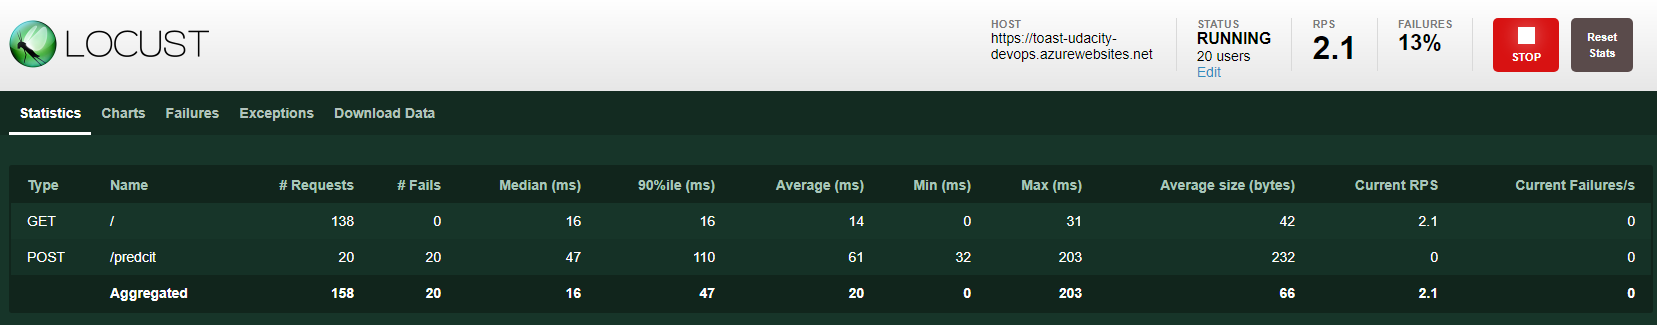
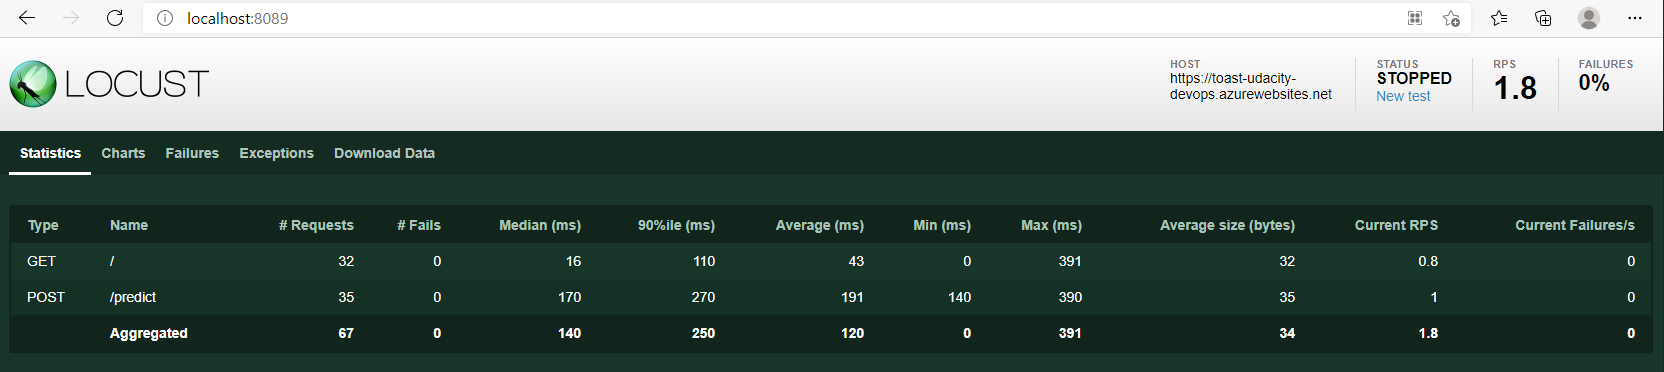
update readme

diff --git a/locustfile.py b/locustfile.py
@@ -4,29 +4,11 @@ from locust import HttpUser, between, task
 class WebsiteUser(HttpUser):
     wait_time = between(5, 15)
     
-    def on_start(self):
-        self.client.post("/predcit",
-        {
-   "CHAS":{
-      "0":0
-   },
-   "RM":{
-      "0":6.575
-   },
-   "TAX":{
-      "0":296.0
-   },
-   "PTRATIO":{
-      "0":15.3
-   },
-   "B":{
-      "0":396.9
-   },
-   "LSTAT":{
-      "0":4.98
-   }
-})
-        
     @task
-    def about(self):
+    def post(self):
+        payload = {'CHAS':{'0':0},'RM':{'0':6.575},'TAX':{'0':296.0},'PTRATIO':{'0':15.3},'B':{'0':396.9},'LSTAT':{'0':4.98}}
+        self.client.post("/predict", json=payload)      
+
+    @task
+    def get(self):
         self.client.get("/")

diff --git a/README.md b/README.md
@@ -19,18 +19,18 @@ In this project, we
 
 ## Instructions
 
-### Clone the repository from github
+### Clone the repository from GitHub
 * using https: `git clone https://github.com/manuel284/Udacity-Building-a-CI-CD-Pipeline.git`
 * using ssh
-    1. create an ssh key: `ssh-keygen -t rsa`
-    ![ssh-keygen](screenshots/11-ssh-keygen.png)
-    2. copy the value of the key: `cat /home/manuel/.ssh/id_rsa.pub`
-    ![ssh-public](screenshots/12-ssh-public.png)
-    3. add the key to your github account: https://github.com/settings/keys ![new ssh key](screenshots/10-ssh-new.png)
-    ![ssh save](screenshots/13-ssh-save.png)
-    ![ssh saved](screenshots/14-ssh-saved.png)
-    4. git clone: `git clone git@github.com:manuel284/Udacity-Building-a-CI-CD-Pipeline.git`
-    ![git clone](screenshots/15-git-clone.png)
+  1. create an ssh key: `ssh-keygen -t rsa`
+  ![ssh-keygen](screenshots/11-ssh-keygen.png)
+  2. copy the value of the key: `cat /home/manuel/.ssh/id_rsa.pub`
+  ![ssh-public](screenshots/12-ssh-public.png)
+  3. add the key to your GitHub account: https://github.com/settings/keys ![new ssh key](screenshots/10-ssh-new.png)
+  ![ssh save](screenshots/13-ssh-save.png)
+  ![ssh saved](screenshots/14-ssh-saved.png)
+  4. git clone: `git clone git@github.com:manuel284/Udacity-Building-a-CI-CD-Pipeline.git`
+  ![git clone](screenshots/15-git-clone.png)
 
 ### Run app locally
 1. change directory: `cd Udacity-Building-a-CI-CD-Pipeline/`
@@ -57,11 +57,11 @@ In this project, we
 3. check the output of your web app's logstream
 ![log-stream](screenshots/6-log-stream.png)
 
-### Setup Continuous Integration in github
-1. Go to the repo in github - Actions - New workflow - set up a workflow yourself.
+### Setup Continuous Integration in GitHub
+1. Go to the repo in GitHub - Actions - New workflow - set up a workflow yourself.
 2. Paste the following code and click `start commit`:
 ```
-name: Python application test with Github Actions
+name: Python application test with GitHub Actions
 
 on: [push]
 
